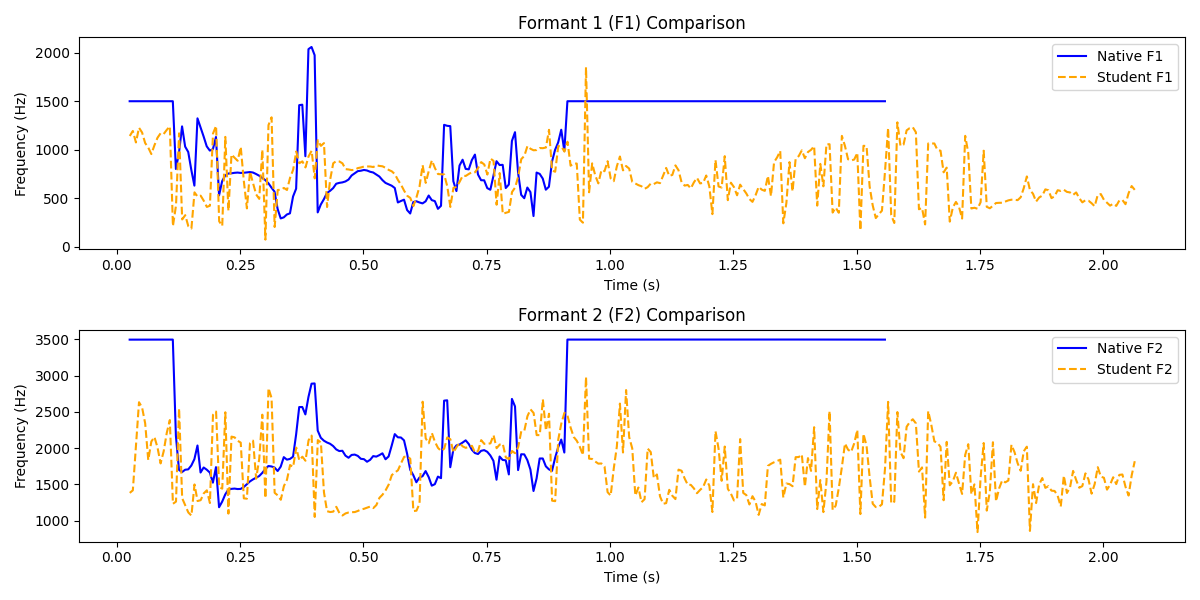
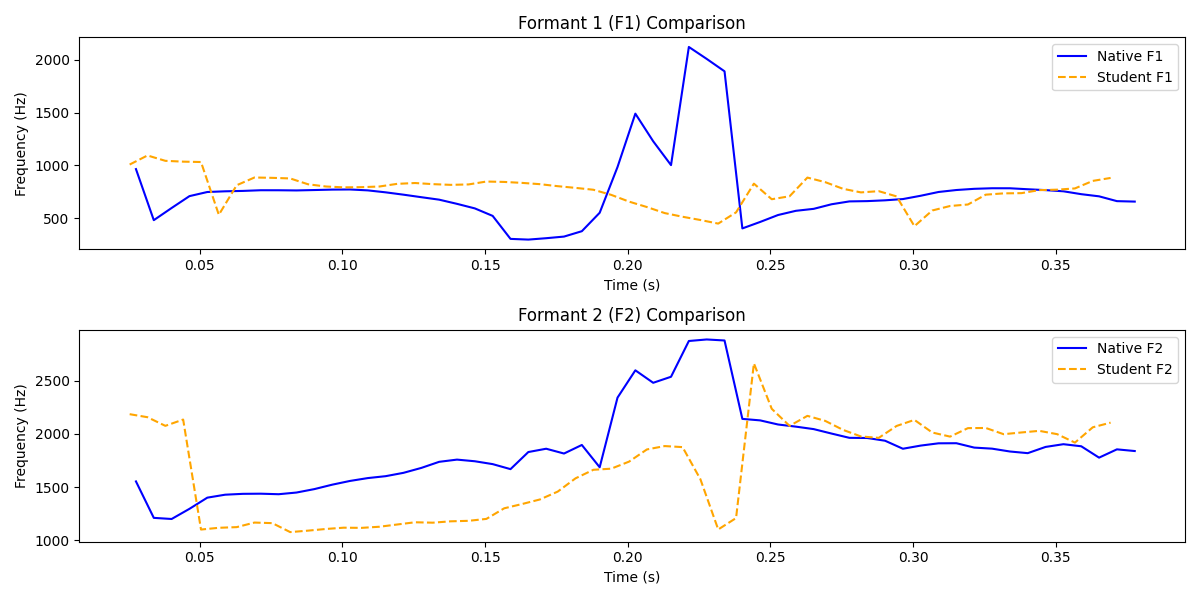
시각화 개선, 발음 시작점

diff --git a/utils/PronunciationChecker/PC_Pipeline/Visualization.py b/utils/PronunciationChecker/PC_Pipeline/Visualization.py
@@ -1,29 +1,40 @@
 import parselmouth
 import matplotlib.pyplot as plt
 import numpy as np
+import librosa
+import soundfile as sf
+import os
 
-# 포먼트 주파수 추출 함수
+
+
+# 오디오의 시작 부분 무음 제거
+def trim_silence(file_path):
+    y, sr = librosa.load(file_path, sr=None)
+    y_trimmed, _ = librosa.effects.trim(y, top_db=20)  # 20dB 이하를 무음으로 간주하고 트림
+    
+    # 임시 폴더 생성 (없으면 생성)
+    temp_dir = "temp_trimmed"
+    os.makedirs(temp_dir, exist_ok=True)
+    
+    # 임시 파일 경로 설정
+    trimmed_file_path = os.path.join(temp_dir, os.path.basename(file_path))
+    sf.write(trimmed_file_path, y_trimmed, sr)
+    return trimmed_file_path, len(y) / sr, len(y_trimmed) / sr  # 원래와 트림된 오디오 길이 반환
+
+# Function to extract formant frequencies
 def extract_formants(file_path):
     try:
         snd = parselmouth.Sound(file_path)
         formant = snd.to_formant_burg()
-        times = formant.ts()  # 시간 축
+        times = formant.ts()  # Time axis
 
-        # F1, F2 포먼트 추출, None 값은 0으로 처리
+        # Extract F1 and F2, handling None values as 0
         f1 = [
-            (
-                formant.get_value_at_time(1, t)
-                if formant.get_value_at_time(1, t) is not None
-                else 0
-            )
+            formant.get_value_at_time(1, t) or 0
             for t in times
         ]
         f2 = [
-            (
-                formant.get_value_at_time(2, t)
-                if formant.get_value_at_time(2, t) is not None
-                else 0
-            )
+            formant.get_value_at_time(2, t) or 0
             for t in times
         ]
 
@@ -32,31 +43,23 @@ def extract_formants(file_path):
         print(f"Error loading file {file_path}: {e}")
         return [], [], []
 
-# 포먼트 시각화 함수
+# Function to plot overlapping formants
 def plot_formants(times_native, f1_native, f2_native, times_student, f1_student, f2_student, save_path=None):
     plt.figure(figsize=(12, 6))
 
-    # F1 시각화
+    # Plot F1
     plt.subplot(2, 1, 1)
-    if len(times_native) > 0 and len(f1_native) > 0:
-        plt.plot(times_native, f1_native, label="Native F1", color="blue")
-    if len(times_student) > 0 and len(f1_student) > 0:
-        plt.plot(
-            times_student, f1_student, label="Student F1", color="orange", linestyle="--"
-        )
+    plt.plot(times_native, f1_native, label="Native F1", color="blue", linestyle="-")
+    plt.plot(times_student, f1_student, label="Student F1", color="orange", linestyle="--")
     plt.xlabel("Time (s)")
     plt.ylabel("Frequency (Hz)")
     plt.title("Formant 1 (F1) Comparison")
     plt.legend()
 
-    # F2 시각화
+    # Plot F2
     plt.subplot(2, 1, 2)
-    if len(times_native) > 0 and len(f2_native) > 0:
-        plt.plot(times_native, f2_native, label="Native F2", color="blue")
-    if len(times_student) > 0 and len(f2_student) > 0:
-        plt.plot(
-            times_student, f2_student, label="Student F2", color="orange", linestyle="--"
-        )
+    plt.plot(times_native, f2_native, label="Native F2", color="blue", linestyle="-")
+    plt.plot(times_student, f2_student, label="Student F2", color="orange", linestyle="--")
     plt.xlabel("Time (s)")
     plt.ylabel("Frequency (Hz)")
     plt.title("Formant 2 (F2) Comparison")
@@ -65,47 +68,37 @@ def plot_formants(times_native, f1_native, f2_native, times_student, f1_student,
     plt.tight_layout()
 
     if save_path:
-        plt.savefig(save_path)  # 이미지로 저장
+        plt.savefig(save_path)
         print(f"Formant plot saved to {save_path}")
     else:
-        plt.show()  # 화면에 표시
+        plt.show()
 
-# 파형 시각화 함수
+# Function to plot overlapping waveforms
 def plot_waveforms(native_audio_path, student_audio_path, save_path=None):
     try:
-        # 원어민 오디오 로드
         snd_native = parselmouth.Sound(native_audio_path)
         native_waveform = snd_native.values[0]
         native_times = snd_native.xs()
         
-        # 학생 오디오 로드
         snd_student = parselmouth.Sound(student_audio_path)
         student_waveform = snd_student.values[0]
         student_times = snd_student.xs()
         
-        plt.figure(figsize=(12, 8))
+        plt.figure(figsize=(12, 6))
 
-        # 원어민 파형
-        plt.subplot(2, 1, 1)
-        plt.plot(native_times, native_waveform, color='blue')
-        plt.title("Native Speaker Waveform")
+        # Overlapping waveforms
+        plt.plot(native_times, native_waveform, label="Native Speaker", color="blue", alpha=0.7)
+        plt.plot(student_times, student_waveform, label="Student Speaker", color="orange", alpha=0.7, linestyle="--")
+        plt.title("Waveform Comparison")
         plt.xlabel("Time (s)")
         plt.ylabel("Amplitude")
-
-        # 학생 파형
-        plt.subplot(2, 1, 2)
-        plt.plot(student_times, student_waveform, color='orange')
-        plt.title("Student Speaker Waveform")
-        plt.xlabel("Time (s)")
-        plt.ylabel("Amplitude")
-
-        plt.tight_layout()
+        plt.legend()
 
         if save_path:
-            plt.savefig(save_path)  # 이미지로 저장
+            plt.savefig(save_path)
             print(f"Waveform plot saved to {save_path}")
         else:
-            plt.show()  # 화면에 표시
+            plt.show()
             
     except Exception as e:
         print(f"Error loading audio files: {e}")

diff --git a/utils/PronunciationChecker/manage.py b/utils/PronunciationChecker/manage.py
@@ -1,10 +1,26 @@
 import sys
 import os
 from datetime import datetime
+import librosa
+import soundfile as sf
 sys.path.append(os.path.join(os.path.dirname(__file__), "Pipeline"))
 
 from PC_Pipeline.Visualization import extract_formants, plot_formants, plot_waveforms
 from PC_Pipeline.Score import calculate_formant_score, calculate_phoneme_score, calculate_overall_score
+
+# 오디오의 시작 부분 무음 제거
+def trim_silence(file_path):
+    y, sr = librosa.load(file_path, sr=None)
+    y_trimmed, _ = librosa.effects.trim(y, top_db=20)  # 20dB 이하를 무음으로 간주하고 트림
+
+    # 임시 폴더 생성 (없으면 생성)
+    temp_dir = "temp_trimmed"
+    os.makedirs(temp_dir, exist_ok=True)
+
+    # 임시 파일 경로 설정
+    trimmed_file_path = os.path.join(temp_dir, os.path.basename(file_path))
+    sf.write(trimmed_file_path, y_trimmed, sr)
+    return trimmed_file_path
 
 def process_audio_files(native_directory, student_directory, expected_word):
     native_files = sorted([f for f in os.listdir(native_directory) if f.endswith('.wav')])
@@ -18,18 +34,24 @@ def process_audio_files(native_directory, student_directory, expected_word):
         
         print(f"Processing Native: {native_file} | Student: {student_file}")
 
-        formant_score = calculate_formant_score(native_path, student_path)
-        phoneme_score = calculate_phoneme_score(student_path, expected_word)
+        # 무음 제거 후 새로운 경로로 설정
+        trimmed_native_path = trim_silence(native_path)
+        trimmed_student_path = trim_silence(student_path)
+
+        # 발음 점수 계산
+        formant_score = calculate_formant_score(trimmed_native_path, trimmed_student_path)
+        phoneme_score = calculate_phoneme_score(trimmed_student_path, expected_word)
         overall_score = calculate_overall_score(formant_score, phoneme_score)
 
-        times_native, f1_native, f2_native = extract_formants(native_path)
-        times_student, f1_student, f2_student = extract_formants(student_path)
+        # 포먼트 추출 및 그래프 그리기
+        times_native, f1_native, f2_native = extract_formants(trimmed_native_path)
+        times_student, f1_student, f2_student = extract_formants(trimmed_student_path)
 
         formant_save_path = f"formant_comparison_{native_file}_{student_file}.png"
         plot_formants(times_native, f1_native, f2_native, times_student, f1_student, f2_student, save_path=formant_save_path)
 
         waveform_save_path = f"waveform_comparison_{native_file}_{student_file}.png"
-        plot_waveforms(native_path, student_path, save_path=waveform_save_path)
+        plot_waveforms(trimmed_native_path, trimmed_student_path, save_path=waveform_save_path)
 
         result = {
             "native_file": native_file,
